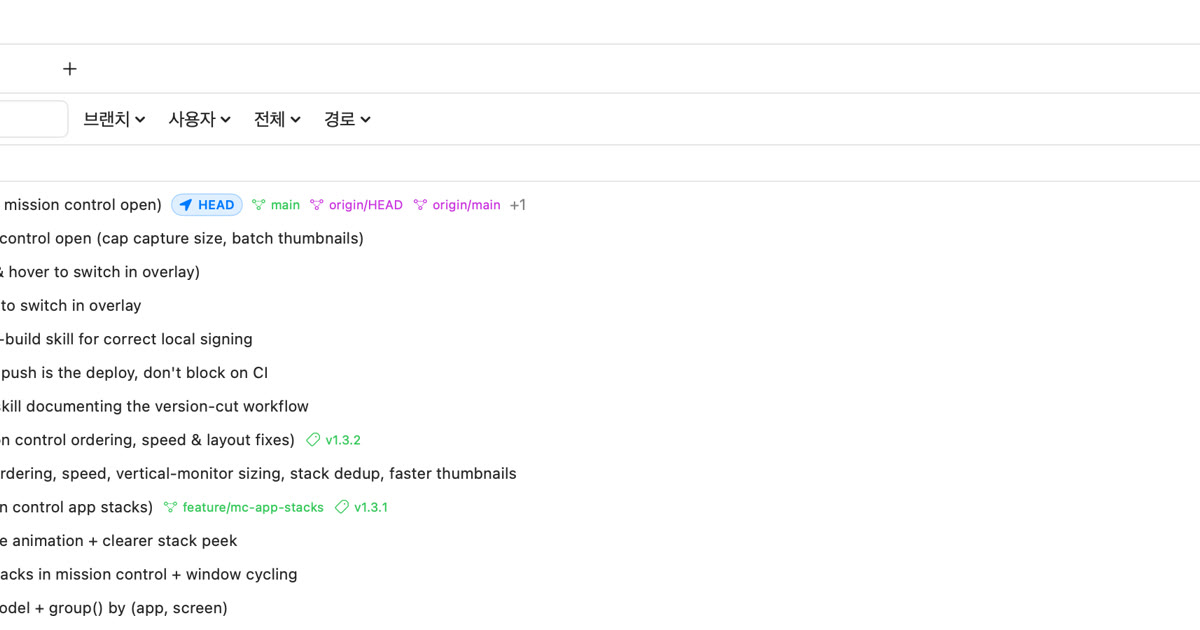
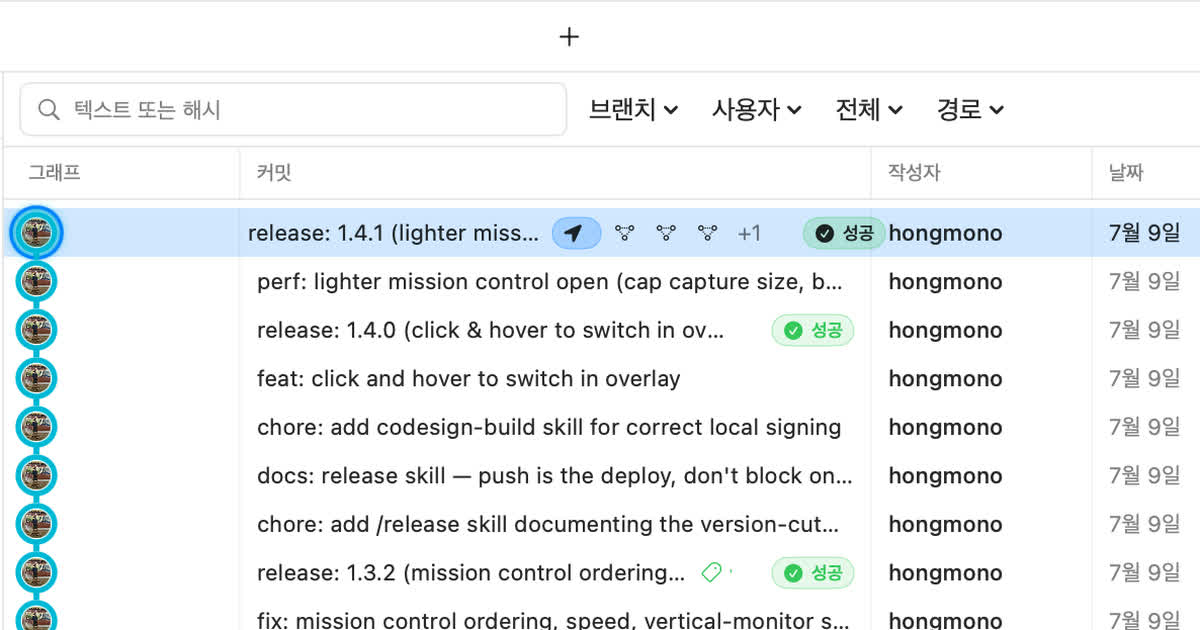
feat: showcase Actions status on homepage

diff --git a/website/index.html b/website/index.html
@@ -5,7 +5,7 @@
     <meta name="viewport" content="width=device-width, initial-scale=1" />
     <meta
       name="description"
-      content="GitScope는 여러 저장소의 커밋, 브랜치, 작업 상태를 한 화면에서 읽고 안전하게 동기화하는 macOS Git 이력 뷰어입니다."
+      content="GitScope는 여러 저장소의 커밋, 브랜치, 작업 상태와 GitHub Actions 결과를 한 화면에서 읽고 안전하게 동기화하는 macOS Git 이력 뷰어입니다."
     />
     <meta name="theme-color" content="#f4f3ee" media="(prefers-color-scheme: light)" />
     <meta name="theme-color" content="#0c1011" media="(prefers-color-scheme: dark)" />
@@ -14,7 +14,7 @@
     <meta property="og:title" content="GitScope | Git history, in focus" />
     <meta
       property="og:description"
-      content="여러 저장소의 브랜치와 작업 상태를 하나의 선명한 타임라인에서 확인하세요."
+      content="여러 저장소의 브랜치, 작업 상태와 GitHub Actions 결과를 하나의 선명한 타임라인에서 확인하세요."
     />
     <meta property="og:url" content="https://hongmono.github.io/GitScope/" />
     <meta property="og:image" content="https://hongmono.github.io/GitScope/assets/og.jpg" />
@@ -56,7 +56,7 @@
           </div>
           <div class="hero-side reveal">
             <p>
-              여러 저장소의 커밋과 작업 상태를 한 화면에서 읽고, 필요한 순간에만 안전하게 동기화하세요.
+              여러 저장소의 커밋과 Actions 상태를 한 화면에서 읽고, 필요한 순간에만 안전하게 동기화하세요.
             </p>
             <div class="hero-actions">
               <a class="button button-dark" href="#install">
@@ -75,7 +75,7 @@
           <div class="shot-halo" aria-hidden="true"></div>
           <img
             src="assets/gitscope-window.webp"
-            alt="GitScope에서 Lathe 저장소의 브랜치와 약 10개의 커밋 그래프를 확인하는 화면"
+            alt="GitScope에서 Lathe 저장소의 브랜치, 커밋 그래프와 GitHub Actions 성공 상태를 확인하는 화면"
             width="4160"
             height="900"
             fetchpriority="high"
@@ -113,6 +113,11 @@
             <p>HEAD, 브랜치, 태그와 앞선 커밋, 뒤처진 커밋을 한 흐름에서 봅니다.</p>
           </article>
           <article class="feature reveal">
+            <p class="feature-glyph actions" aria-label="GitHub Actions 성공">✓ CI</p>
+            <h3>Actions 결과까지</h3>
+            <p>커밋마다 실행 상태를 확인하고, 워크플로와 Job 결과로 바로 이동합니다.</p>
+          </article>
+          <article class="feature reveal">
             <p class="feature-glyph orange" aria-hidden="true">⌘ R</p>
             <h3>rebase pull과 push</h3>
             <p>브랜치 메뉴에서 동기화하고 단축키로 모든 원격 변경을 가져옵니다.</p>
@@ -126,7 +131,7 @@
             <p class="eyebrow">Signal over noise</p>
             <h2 id="signals-title">그래프 안에서<br />지금 상태까지.</h2>
             <p>
-              현재 위치와 작업 중인 파일을 타임라인 안에 표시해, 다음 행동을 판단하는 데 필요한 맥락을 놓치지 않습니다.
+              현재 위치와 작업 중인 파일, Actions 결과를 타임라인 안에 표시해 다음 행동에 필요한 맥락을 놓치지 않습니다.
             </p>
           </div>
           <dl class="signal-list">
@@ -142,13 +147,17 @@
               <dt><i class="dot orange-dot" aria-hidden="true"></i>뒤처진 변경</dt>
               <dd>가져올 커밋을 주황색으로</dd>
             </div>
+            <div class="reveal">
+              <dt><i class="dot cyan-dot" aria-hidden="true"></i>Actions 상태</dt>
+              <dd>실행 중, 성공, 실패를 커밋 옆에</dd>
+            </div>
           </dl>
         </div>
 
         <figure class="detail-shot reveal">
           <img
             src="assets/gitscope-detail.webp"
-            alt="Lathe 저장소의 HEAD, 브랜치, 태그와 upstream 차이가 표시된 커밋 그래프"
+            alt="Lathe 저장소의 HEAD, 브랜치, 태그, upstream 차이와 GitHub Actions 성공 상태가 표시된 커밋 그래프"
             width="3000"
             height="900"
             loading="lazy"

diff --git a/website/styles.css b/website/styles.css
@@ -439,7 +439,7 @@ h1 span:nth-child(2) {
 
 .workflow-grid {
   display: grid;
-  grid-template-columns: repeat(3, minmax(0, 1fr));
+  grid-template-columns: repeat(4, minmax(0, 1fr));
   margin-top: clamp(60px, 7vw, 96px);
   border-top: 1px solid rgba(255, 255, 255, 0.16);
   border-bottom: 1px solid rgba(255, 255, 255, 0.16);
@@ -481,6 +481,10 @@ h1 span:nth-child(2) {
 
 .feature-glyph.orange {
   color: var(--orange);
+}
+
+.feature-glyph.actions {
+  color: var(--green);
 }
 
 .feature-glyph.split {